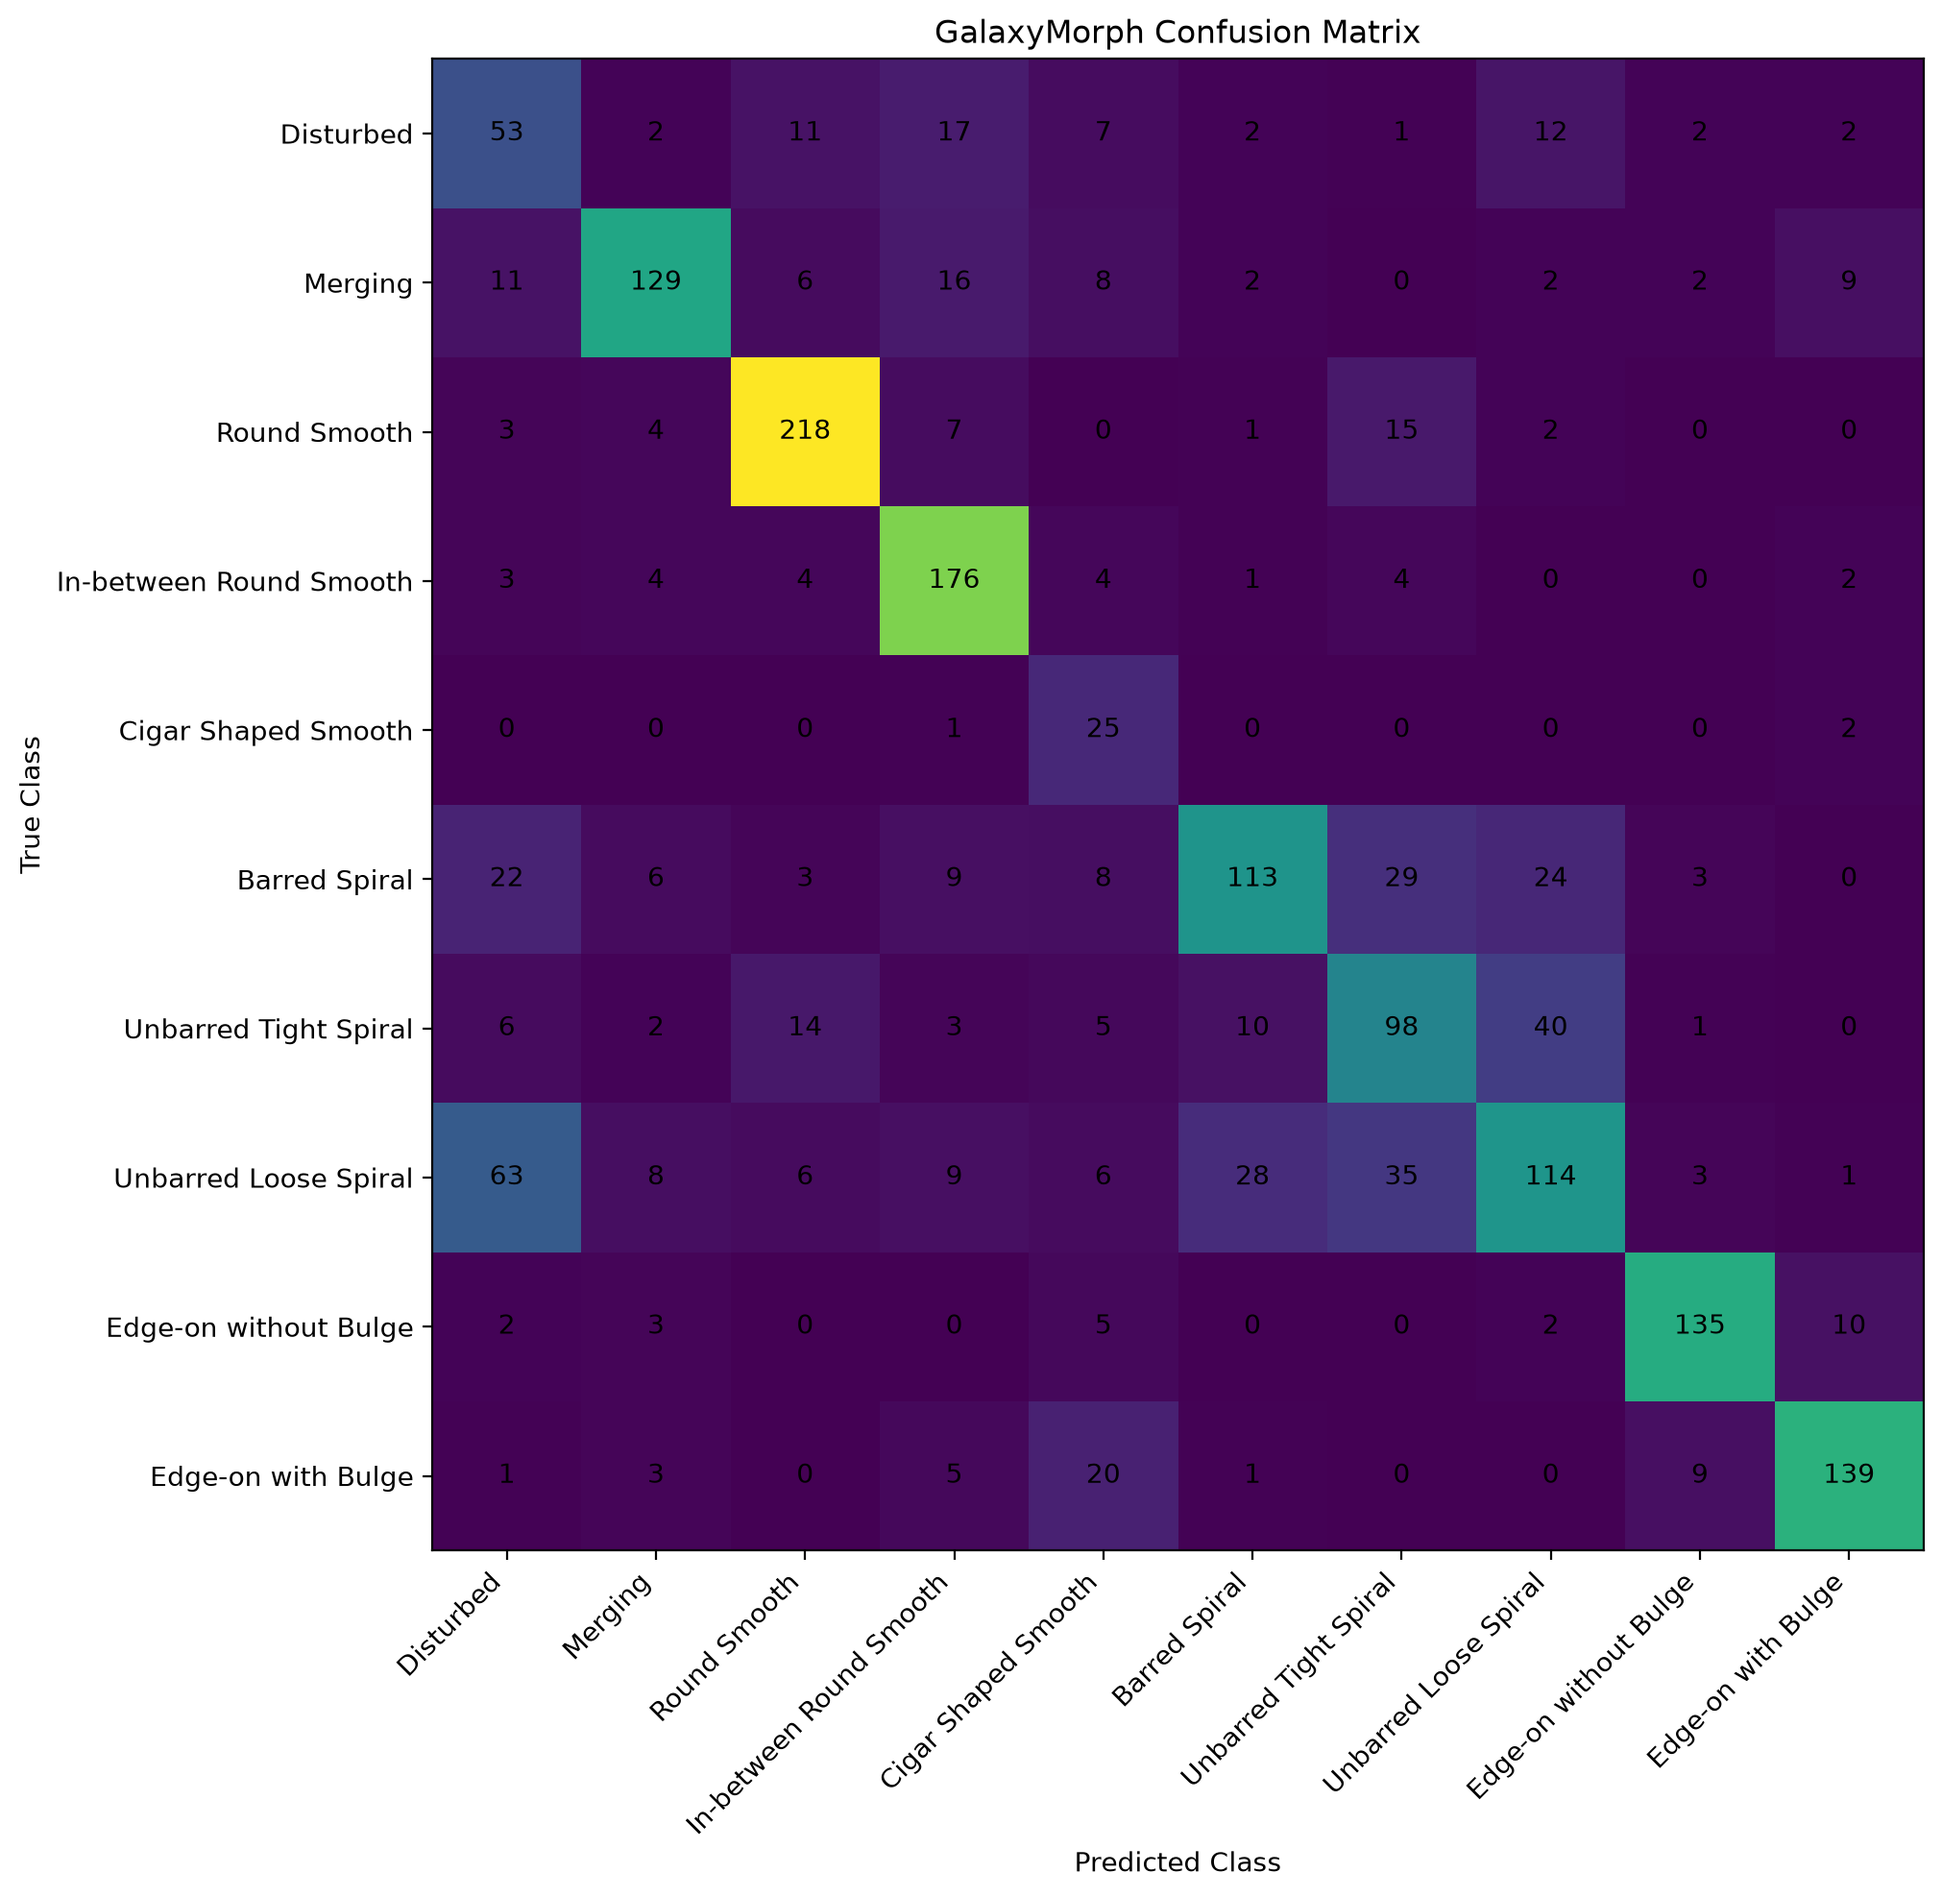
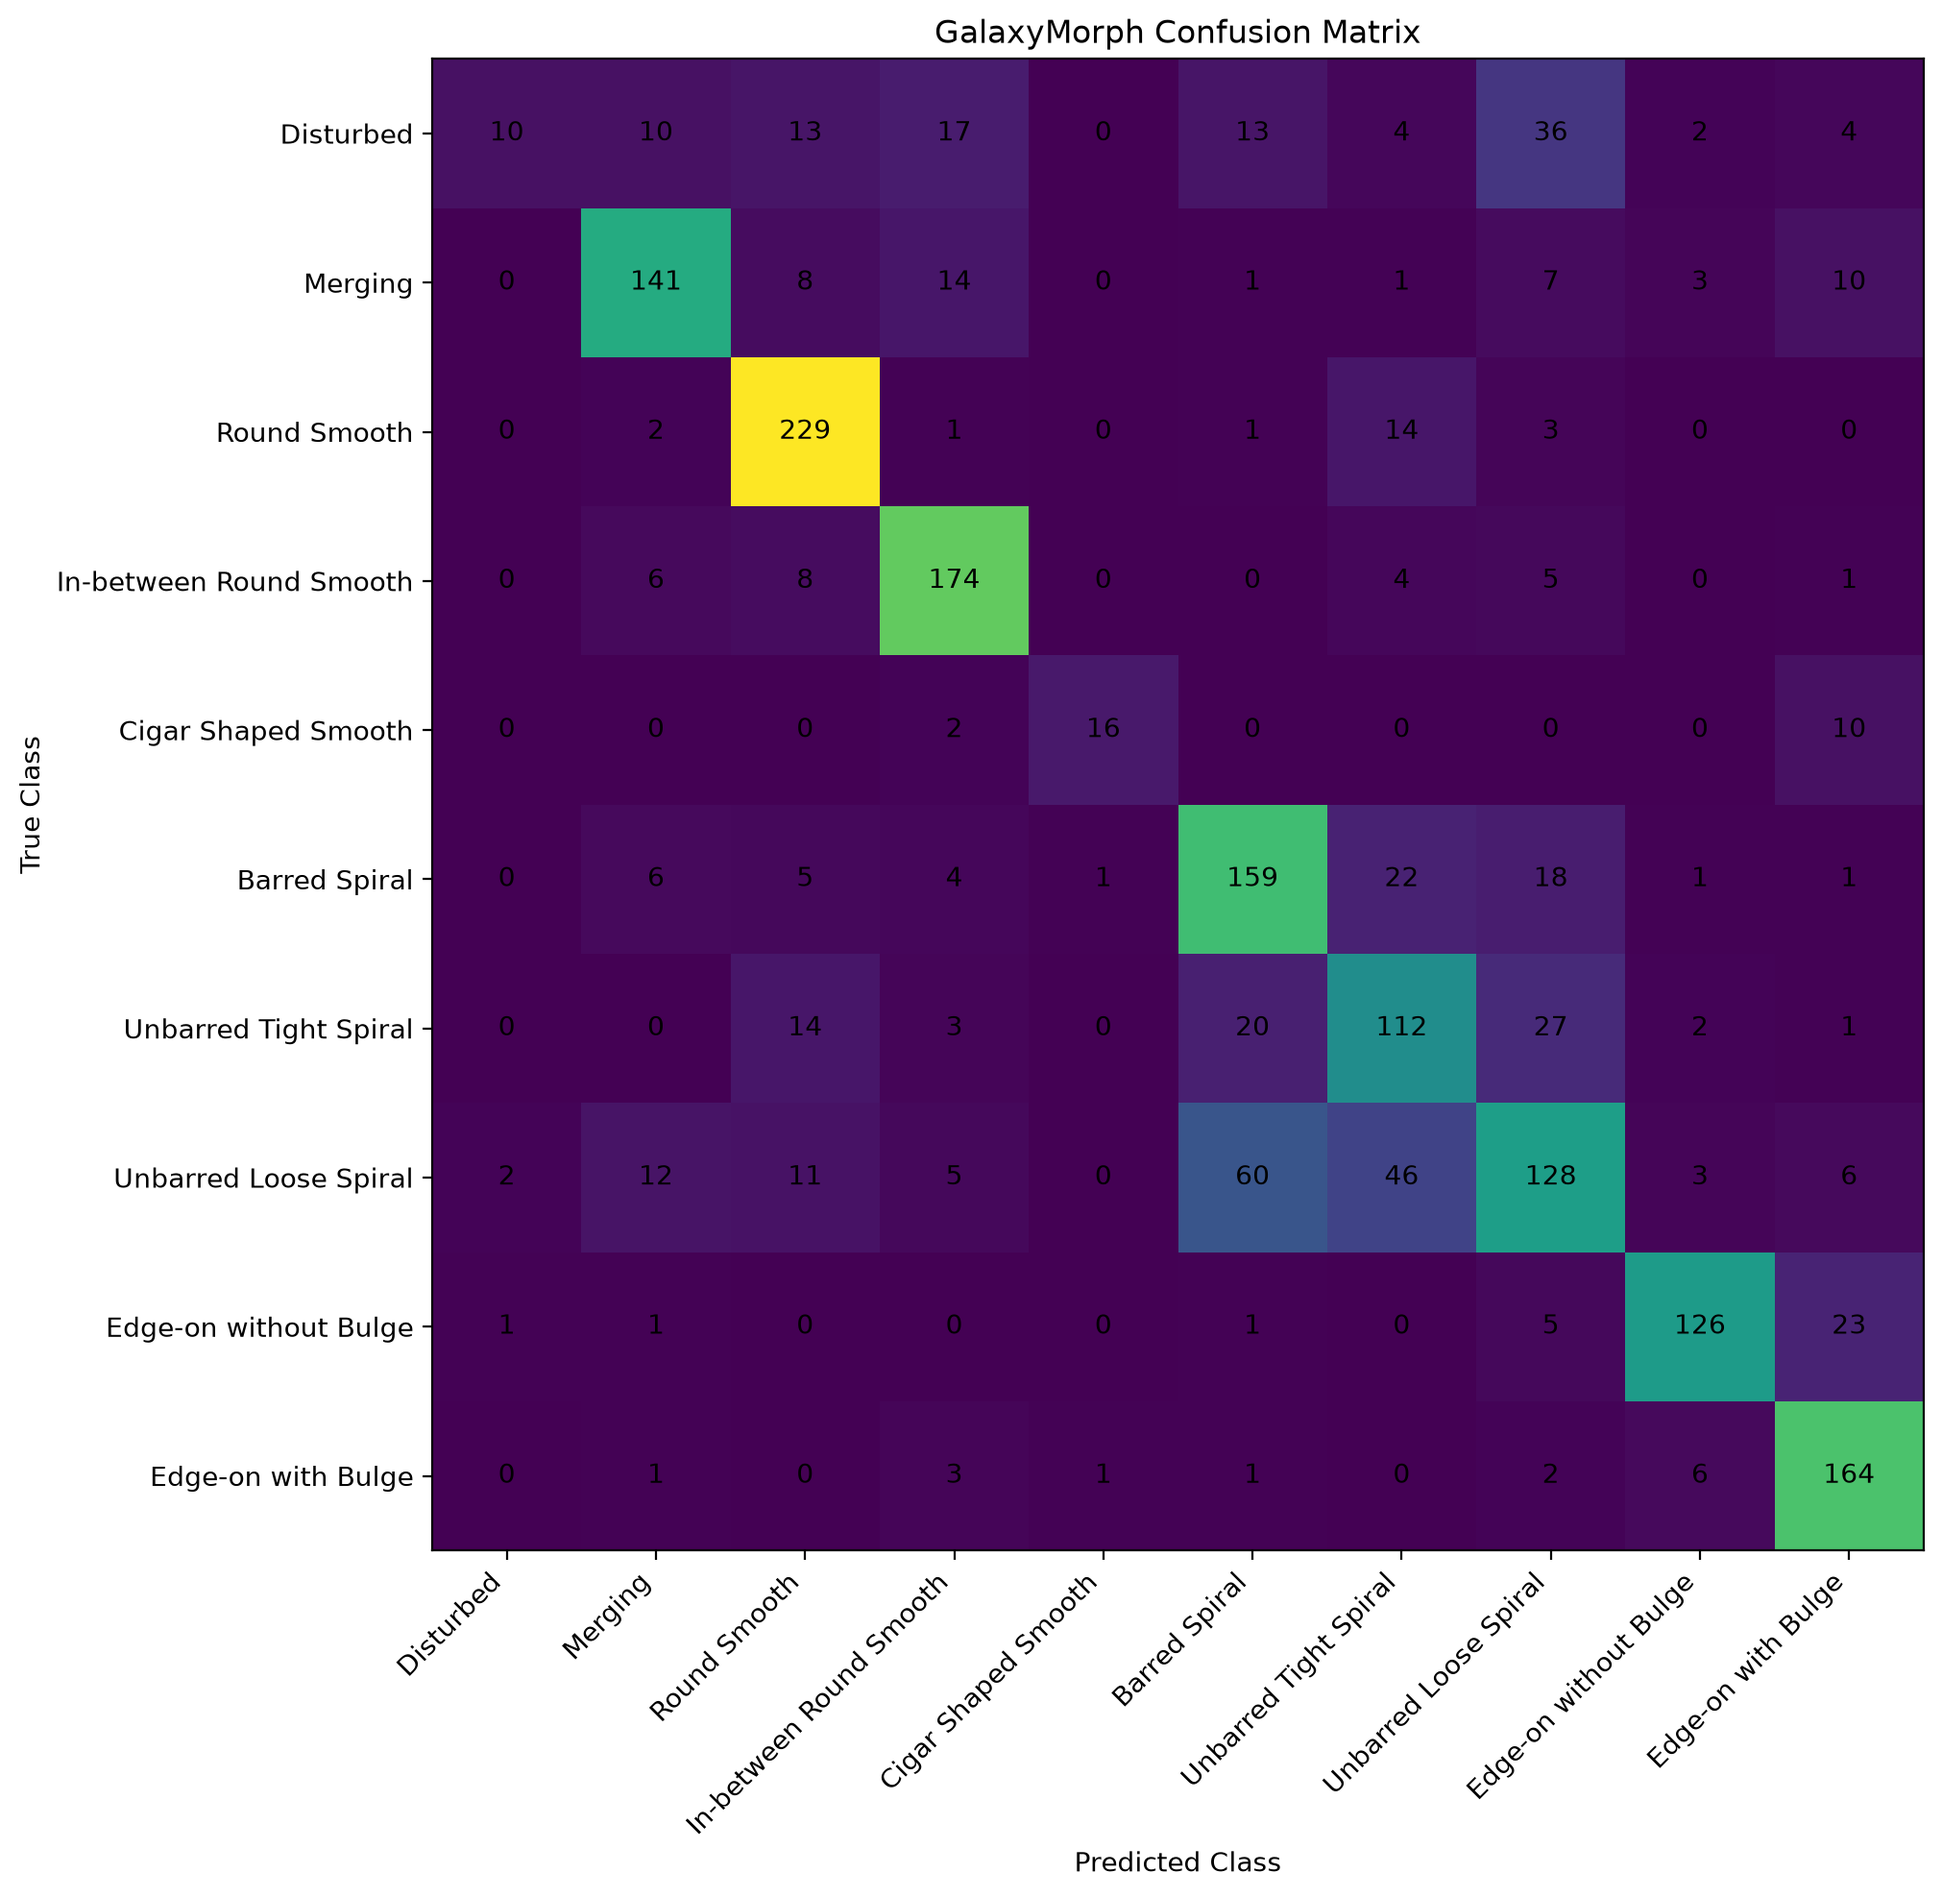
docs: add project README and final results

diff --git a/README.md b/README.md
@@ -1,106 +1,296 @@
 # GalaxyMorph
 
-CNN-based galaxy morphology classification using the Galaxy10 DECaLS dataset and PyTorch.
+GalaxyMorph is a deep learning project for classifying galaxy morphology using the **Galaxy10 DECaLS** dataset and a convolutional neural network (CNN).
 
-## Project Goal
+## Final Result
 
-GalaxyMorph classifies galaxy images into 10 different morphological classes using a convolutional neural network (CNN).
+**Selected model:** Baseline CNN
+
+| Metric | Test Result |
+|---|---:|
+| Accuracy | **70.97%** |
+| Macro Precision | **73.75%** |
+| Macro Recall | **67.71%** |
+| Macro F1 | **67.43%** |
+| Weighted F1 | **69.00%** |
+
+The baseline outperformed all three experimental modifications tested.
+
+---
 
 ## Dataset
 
-Galaxy10 DECaLS.
+Galaxy10 DECaLS is a 10-class galaxy morphology classification dataset.
 
-- Training images: 15,962
-- Test images: 1,774
-- Image size: 256 × 256
-- Model input size: 128 × 128
-- Number of classes: 10
+| ID | Galaxy Morphology |
+|---:|---|
+| 0 | Disturbed |
+| 1 | Merging |
+| 2 | Round Smooth |
+| 3 | In-between Round Smooth |
+| 4 | Cigar Shaped Smooth |
+| 5 | Barred Spiral |
+| 6 | Unbarred Tight Spiral |
+| 7 | Unbarred Loose Spiral |
+| 8 | Edge-on without Bulge |
+| 9 | Edge-on with Bulge |
 
-## Tech Stack
+### Data split
 
-- Python
-- PyTorch
-- Torchvision
-- Hugging Face Datasets
-- NumPy
-- Scikit-learn
-- Matplotlib
+The original training data is split into **90% training / 10% validation** using seed `42`. The original test set remains completely held out for final evaluation.
 
-## Project Structure
-
-```text
-GalaxyMorph/
-├── datasets/
-├── models/
-│   └── best_model.pth
-├── src/
-│   ├── data.py
-│   ├── model.py
-│   └── train.py
-├── main.py
-├── pyproject.toml
-├── uv.lock
-└── README.md
-
-```
-
-## Model
-
-The current model is a custom CNN consisting of:
-
-- 3 convolutional blocks
-- ReLU activations
-- Max pooling
-- Fully connected classifier
-- Dropout
-
-### Input
-
-```text
-3 × 128 × 128
-```
-## Output
-```text
-10 classes
-```
-## Training
-
-Training is performed using:
-
-- Optimizer: Adam
-- Learning rate: 0.001
-- Loss: CrossEntropyLoss
-- Batch size: 32
-- Epochs: 10
-- GPU: NVIDIA GeForce RTX 4050 Laptop GPU
-
-## Results
-
-Initial CNN training:
-
-| Metric | Result |
+| Split | Batches |
 |---|---:|
-| Best validation accuracy | 72.32% |
-| Best epoch | 10 |
-| Training accuracy | 69.15% |
-| Validation loss | 0.8009 |
+| Training | 449 |
+| Validation | 50 |
+| Test | 56 |
 
-The best model is saved to:
+The test set contains **1,774 images**.
+
+---
+
+## Baseline CNN
+
+The final model contains three convolutional blocks:
+
+```text
+Input: 3 × 128 × 128
+
+Conv2D 3 → 32
+ReLU
+MaxPool
+
+Conv2D 32 → 64
+ReLU
+MaxPool
+
+Conv2D 64 → 128
+ReLU
+MaxPool
+
+Flatten
+Linear → 256
+ReLU
+Dropout(0.5)
+Linear → 10
+```
+
+### Training configuration
+
+| Parameter | Value |
+|---|---|
+| Image size | 128 × 128 |
+| Batch size | 32 |
+| Epochs | 10 |
+| Optimizer | Adam |
+| Learning rate | 0.001 |
+| Loss | CrossEntropyLoss |
+| Random seed | 42 |
+| GPU | NVIDIA GeForce RTX 4050 Laptop GPU |
+
+### Baseline augmentation
+
+Training images use:
+
+- Resize to 128 × 128
+- Random horizontal flip
+- Random vertical flip
+- Random rotation up to 20°
+- Tensor conversion
+
+Validation and test images use resizing and tensor conversion only.
+
+---
+
+# Experiments
+
+Three controlled experiments were evaluated against the baseline.
+
+| Experiment | Main Change | Accuracy | Precision | Recall | Macro F1 | Decision |
+|---|---|---:|---:|---:|---:|---|
+| **Baseline** | Standard CNN + CrossEntropyLoss | **70.97%** | **73.75%** | 67.71% | **67.43%** | **Selected** |
+| Experiment 1 | ColorJitter augmentation | 69.00% | 68.48% | 66.70% | 66.95% | Rejected |
+| Experiment 2 | Class-weighted CrossEntropyLoss | 67.64% | 65.14% | **69.64%** | 65.22% | Rejected |
+| Experiment 3 | Deeper CNN + BatchNorm | 60.15% | 58.09% | 52.20% | 50.98% | Rejected |
+
+### Experiment 1 — ColorJitter
+
+Added brightness, contrast, and saturation jitter to the training pipeline.
+
+Result: performance decreased from the baseline.
+
+### Experiment 2 — Class-weighted loss
+
+Replaced standard CrossEntropyLoss with inverse-frequency class weighting.
+
+Result: macro recall increased, but overall accuracy and macro F1 decreased.
+
+### Experiment 3 — Deeper CNN + BatchNorm
+
+Added a fourth convolutional block, increased the final convolutional width to 256 channels, and added BatchNorm.
+
+Result: performance decreased substantially.
+
+---
+
+# Final Classification Report
+
+| Galaxy Morphology | Precision | Recall | F1 Score | Support |
+|---|---:|---:|---:|---:|
+| Disturbed | 0.77 | 0.09 | 0.16 | 109 |
+| Merging | 0.79 | 0.76 | 0.77 | 185 |
+| Round Smooth | 0.80 | 0.92 | 0.85 | 250 |
+| In-between Round Smooth | 0.78 | 0.88 | 0.83 | 198 |
+| Cigar Shaped Smooth | 0.89 | 0.57 | 0.70 | 28 |
+| Barred Spiral | 0.62 | 0.73 | 0.67 | 217 |
+| Unbarred Tight Spiral | 0.55 | 0.63 | 0.59 | 179 |
+| Unbarred Loose Spiral | 0.55 | 0.47 | 0.51 | 273 |
+| Edge-on without Bulge | 0.88 | 0.80 | 0.84 | 157 |
+| Edge-on with Bulge | 0.75 | 0.92 | 0.82 | 178 |
+| **Macro Average** | **0.74** | **0.68** | **0.67** | **1774** |
+| **Weighted Average** | **0.71** | **0.71** | **0.69** | **1774** |
+
+---
+
+# Confusion Matrix
+
+The final confusion matrix is generated by the evaluation pipeline and saved to:
+
+```text
+results/confusion_matrix.png
+```
+
+Rows represent true classes and columns represent predicted classes.
+
+```text
+[[ 10  10  13  17   0  13   4  36   2   4]
+ [  0 141   8  14   0   1   1   7   3  10]
+ [  0   2 229   1   0   1  14   3   0   0]
+ [  0   6   8 174   0   0   4   5   0   1]
+ [  0   0   0   2  16   0   0   0   0  10]
+ [  0   6   5   4   1 159  22  18   1   1]
+ [  0   0  14   3   0  20 112  27   2   1]
+ [  2  12  11   5   0  60  46 128   3   6]
+ [  1   1   0   0   0   1   0   5 126  23]
+ [  0   1   0   3   1   1   0   2   6 164]]
+```
+
+---
+
+# Interpretation
+
+The model performs particularly well on:
+
+- Round Smooth
+- In-between Round Smooth
+- Edge-on without Bulge
+- Edge-on with Bulge
+- Merging
+
+The weakest class is **Disturbed**, with recall of only `0.09`.
+
+The model also struggles to distinguish several visually similar spiral classes, especially:
+
+- Barred Spiral
+- Unbarred Tight Spiral
+- Unbarred Loose Spiral
+
+These patterns are visible in the confusion matrix.
+
+---
+
+# Reproducibility
+
+The project uses `uv` for environment and dependency management.
+
+### Train
+
+```powershell
+uv run main.py
+```
+
+The training script loads the dataset, creates the train/validation/test split, trains the CNN, and saves the best checkpoint to:
 
 ```text
 models/best_model.pth
-
 ```
-## Running the Project
-```bash
-Install dependencies:
 
+### Evaluate
 
-uv sync
-
-Run training:
-
-
-uv run main.py
-
+```powershell
+uv run evaluation.py
 ```
+
+Evaluation reports:
+
+- Accuracy
+- Precision
+- Recall
+- Macro F1
+- Per-class metrics
+- Confusion matrix
+
+The confusion matrix is saved to:
+
+```text
+results/confusion_matrix.png
+```
+
+---
+
+# Project Structure
+
+```text
+Galaxymorph/
+│
+├── datasets/
+│   └── galaxy10_decals/
+│
+├── models/
+│   └── best_model.pth
+│
+├── results/
+│   └── confusion_matrix.png
+│
+├── src/
+│   ├── data.py
+│   ├── model.py
+│   ├── train.py
+│   └── evaluate.py
+│
+├── evaluation.py
+├── main.py
+├── README.md
+└── pyproject.toml
+```
+
+---
+
+# Experimental Conclusion
+
+The experiments show that increasing augmentation, adding class weighting, or increasing CNN depth did **not** improve performance for this setup.
+
+The baseline model achieved the best held-out test performance:
+
+> **70.97% accuracy and 0.6743 macro F1**
+
+Therefore, the baseline CNN was selected as the final model.
+
+The failed experiments remain preserved in Git so that the model-selection process is reproducible.
+
+---
+
+# Future Improvements
+
+Potential future work includes:
+
+- Transfer learning with pretrained image models
+- Learning-rate scheduling
+- More systematic hyperparameter search
+- Better handling of class imbalance
+- Targeted augmentation strategies
+- Misclassification analysis
+- Per-class sampling strategies
+- Grad-CAM or other explainability methods
+- Confidence calibration
+- Larger CNN architectures
